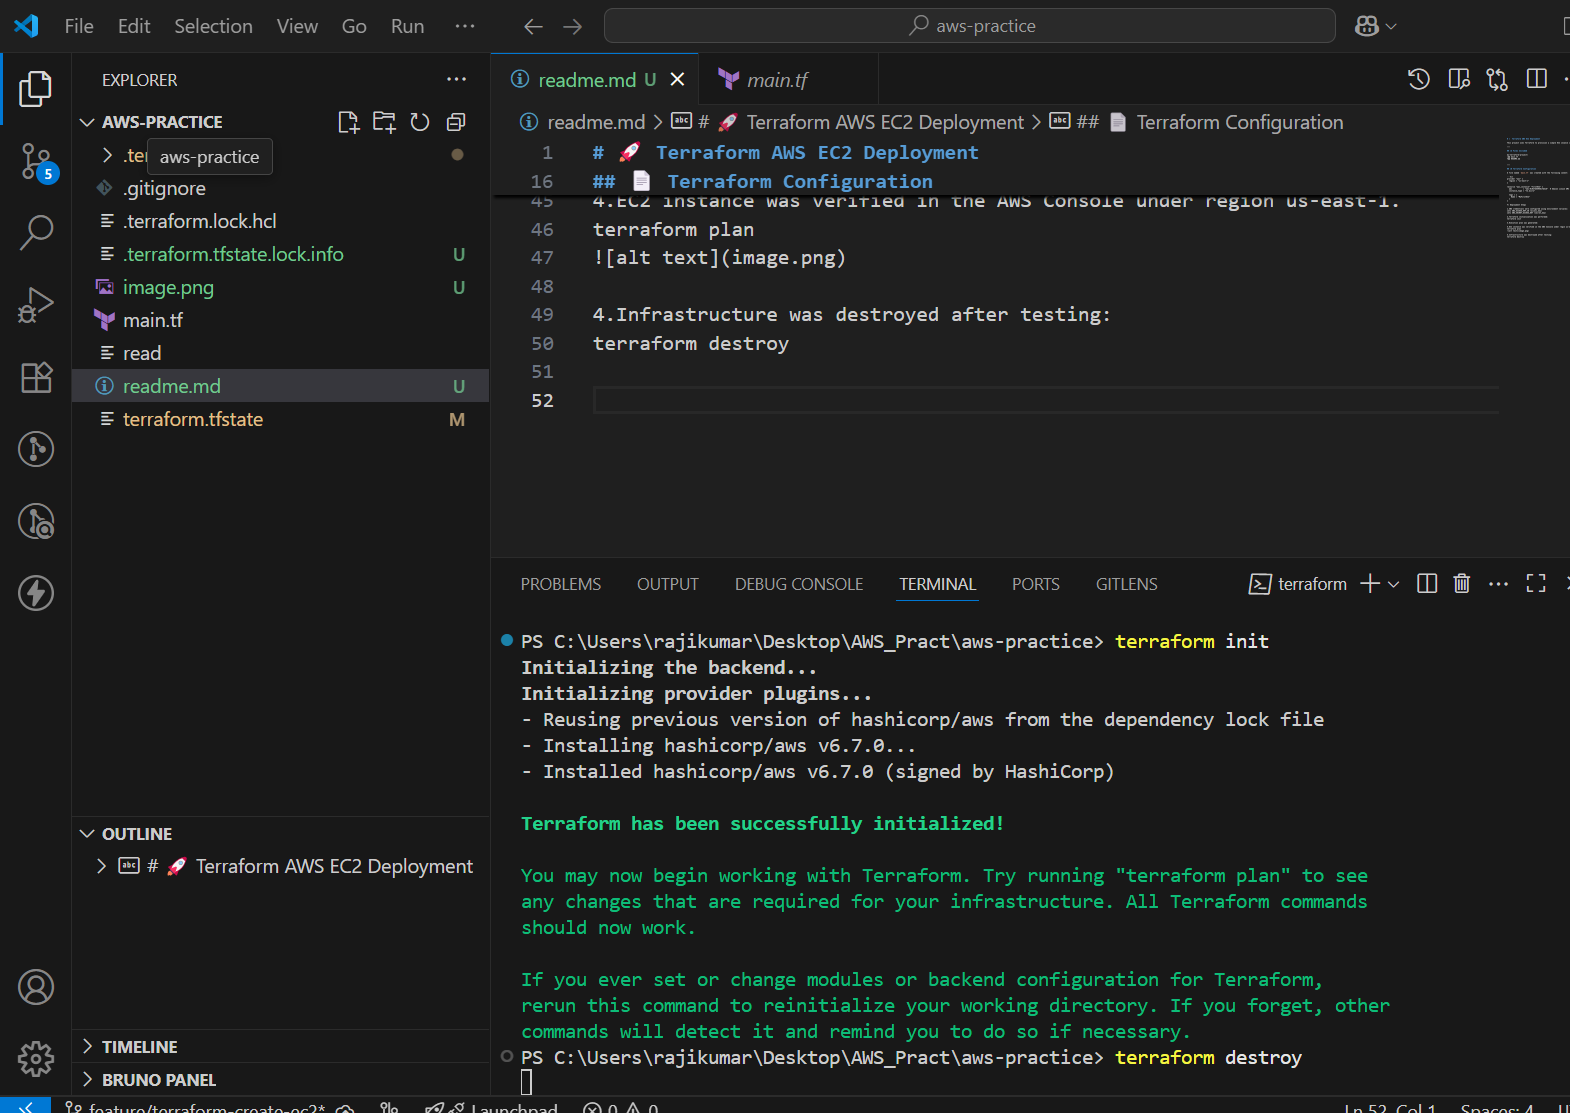
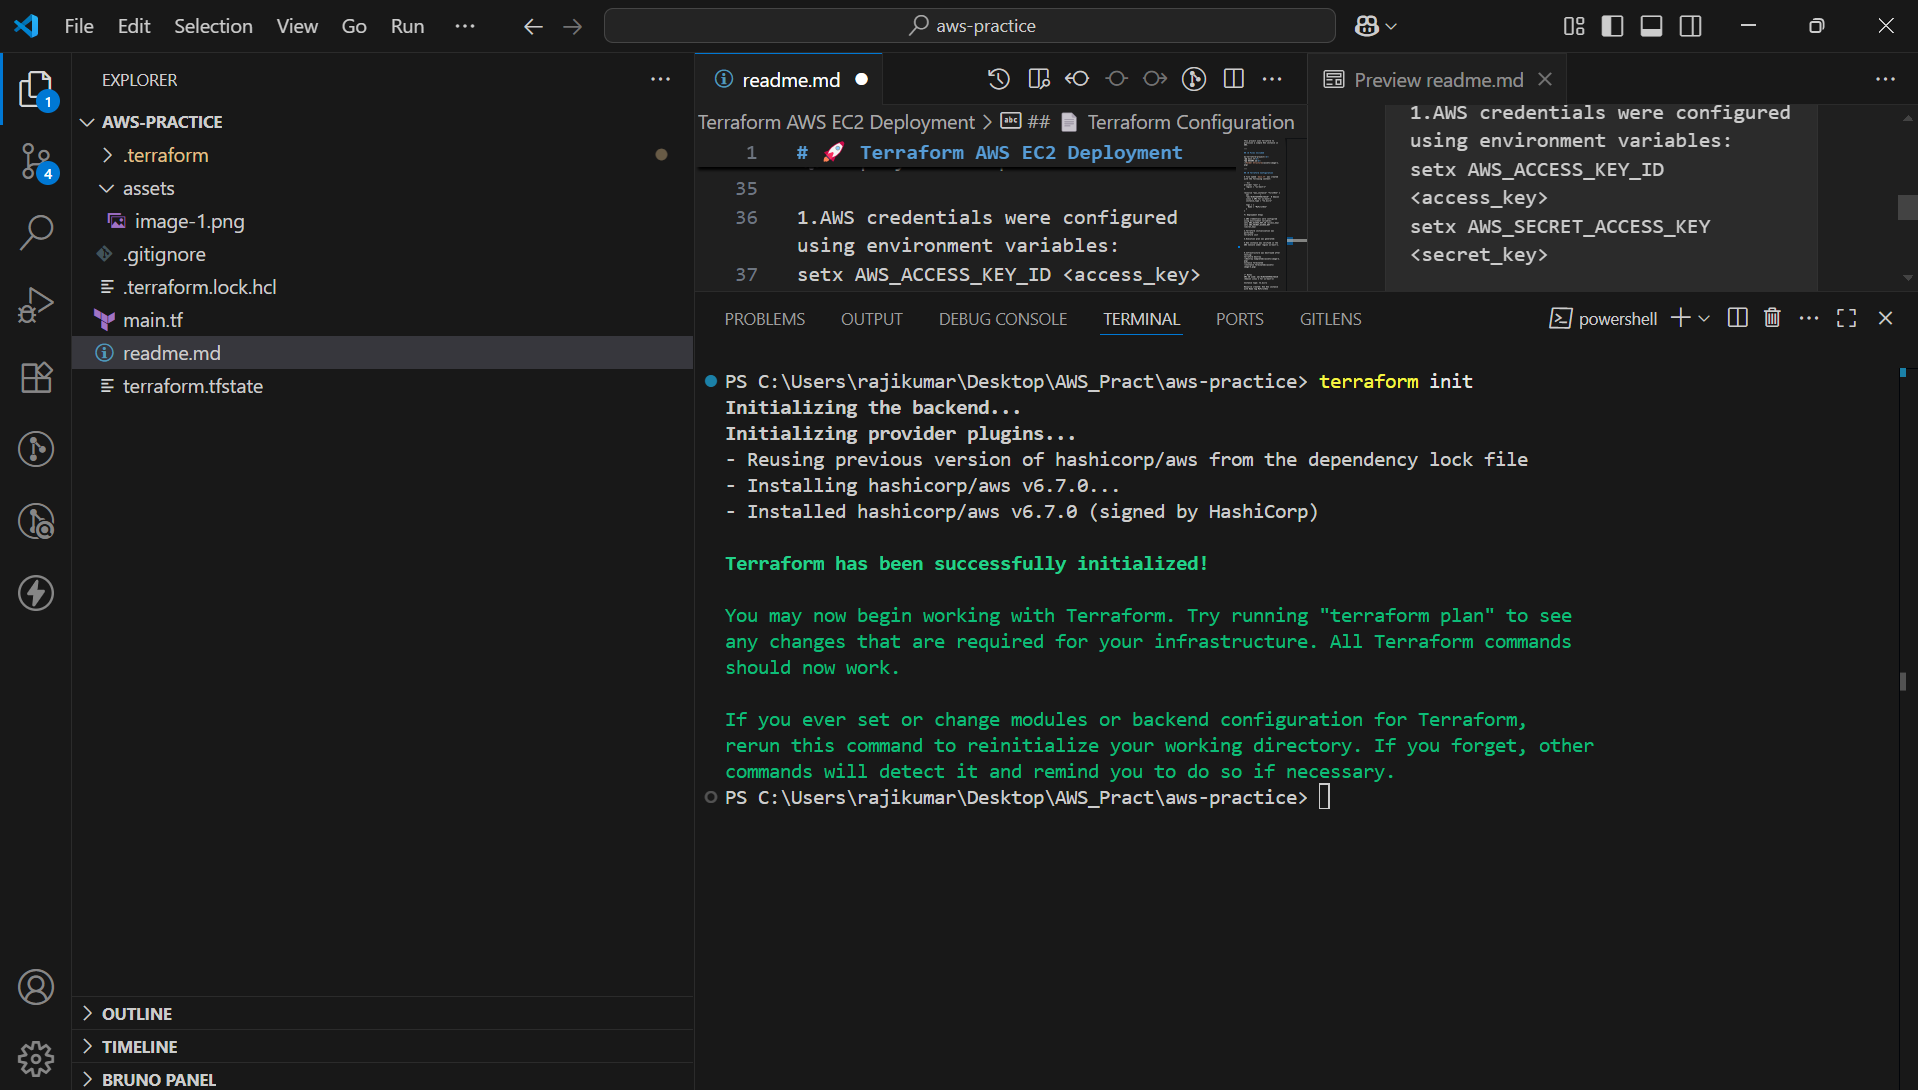
Update assets file

diff --git a/readme.md b/readme.md
@@ -9,15 +9,13 @@ This project uses Terraform to provision a simple EC2 instance in AWS.
 my-terraform-project/<br>
 ├── main.tf<br>
 └── README.md<br>
-![Folder Structure](assets/image-1.png)
 
----
+![Folder Structure](assets/image-1.png)
 
 ## 📄 Terraform Configuration
 
 A file named `main.tf` was created with the following content:
 
-```hcl
 provider "aws" {
   region = "us-east-1"
 }
@@ -39,12 +37,13 @@ setx AWS_SECRET_ACCESS_KEY <secret_key>
 
 2.Terraform initialization was performed:
 terraform init
+![alt text](assets/image-1.png)
+
 
 3.Execution plan was generated:
 
 4.EC2 instance was verified in the AWS Console under region us-east-1.
-terraform plan<br>
-![Instance Created](assets/image.png)
+![alt text](assets/image-4.png)
 
 
 5.Infrastructure was destroyed after testing:
